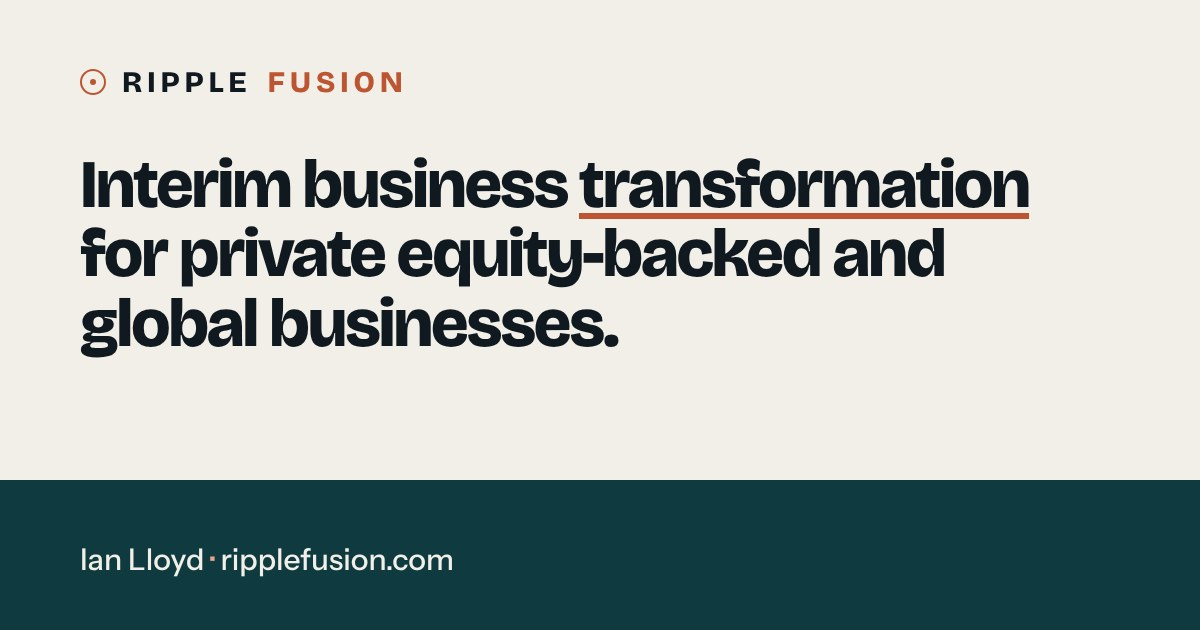
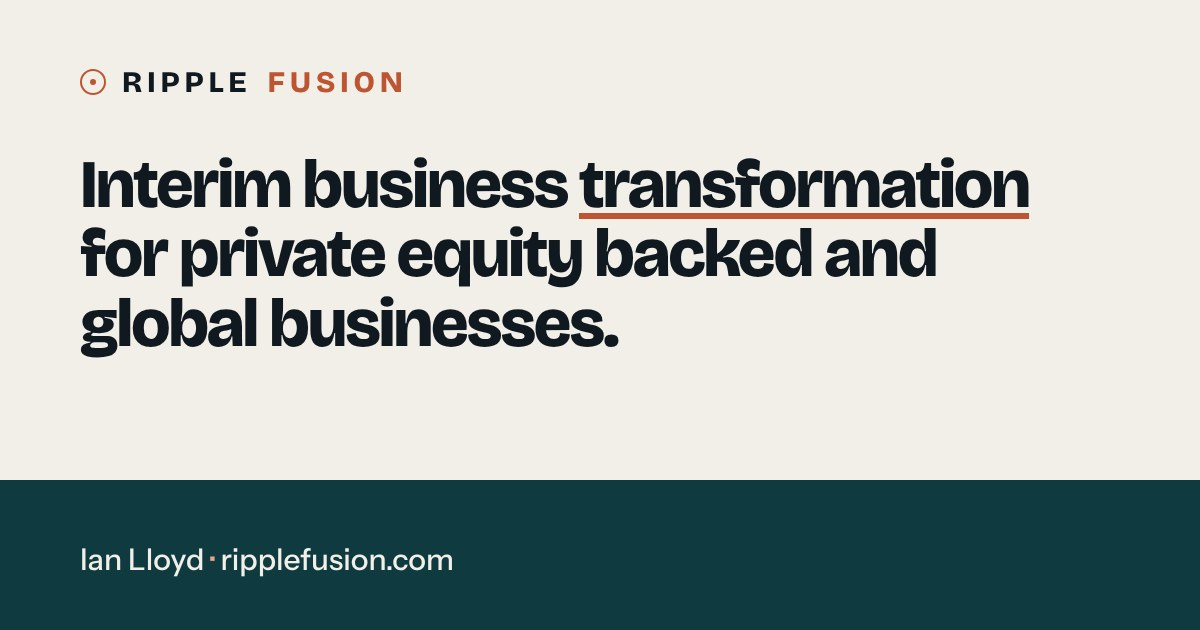
Remove hyphens from the copy, dot beside the wordmark and the large outlined wordmark; LinkedIn shows as Ian Lloyd
Claude-Session: https://claude.ai/code/session_01FFTbw1NJUdJsbffQQ1X4gV

Changed region(s): [[0.4625, 0.3619, 0.8017, 0.4524]]

diff --git a/index.html b/index.html
@@ -4,7 +4,7 @@
 <meta charset="utf-8">
 <meta name="viewport" content="width=device-width, initial-scale=1, viewport-fit=cover">
 <title>Ripple Fusion | Interim Business Transformation</title>
-<meta name="description" content="Interim business transformation for private equity-backed and global businesses: separation, operating model, acquisition integration, programme turnaround, cost and exit readiness.">
+<meta name="description" content="Interim business transformation for private equity backed and global businesses: separation, operating model, acquisition integration, programme turnaround, cost and exit readiness.">
 <link rel="canonical" href="https://ripplefusion.com/">
 <meta name="theme-color" content="#f1efe8">
 <link rel="icon" href="/favicon.ico" sizes="any">
@@ -14,13 +14,13 @@
 <meta property="og:type" content="website">
 <meta property="og:url" content="https://ripplefusion.com/">
 <meta property="og:title" content="Ripple Fusion | Interim Business Transformation">
-<meta property="og:description" content="Interim business transformation for private equity-backed and global businesses.">
+<meta property="og:description" content="Interim business transformation for private equity backed and global businesses.">
 <meta property="og:image" content="https://ripplefusion.com/images/share.jpg">
 <meta property="og:image:width" content="1200">
 <meta property="og:image:height" content="630">
 <meta name="twitter:card" content="summary_large_image">
 <meta name="twitter:title" content="Ripple Fusion | Interim Business Transformation">
-<meta name="twitter:description" content="Interim business transformation for private equity-backed and global businesses.">
+<meta name="twitter:description" content="Interim business transformation for private equity backed and global businesses.">
 <meta name="twitter:image" content="https://ripplefusion.com/images/share.jpg">
 <script type="application/ld+json">
 {
@@ -28,7 +28,7 @@
   "@type": "ProfessionalService",
   "name": "Ripple Fusion",
   "url": "https://ripplefusion.com/",
-  "description": "Interim business transformation for private equity-backed and global businesses.",
+  "description": "Interim business transformation for private equity backed and global businesses.",
   "founder": { "@type": "Person", "name": "Ian Lloyd", "url": "https://ianlloyd.com/", "sameAs": ["https://www.linkedin.com/in/realianlloyd/"] },
   "areaServed": "Worldwide",
   "knowsAbout": ["Separation and Transition Services Agreements", "Target Operating Model", "Acquisition Integration", "Programme Turnaround", "Cost, Sourcing and Global Delivery", "Exit Readiness and Transaction Support", "Interim Transformation", "Private Equity Value Creation"]
@@ -122,10 +122,6 @@
   .top.scrolled { border-bottom-color: var(--rule); }
   .top .wrap { padding-block: 0; min-height: var(--bar); display: flex; align-items: center; justify-content: space-between; gap: 12px 24px; }
   .mark { display: inline-flex; align-items: center; gap: 12px; font: 800 1.02rem var(--display); letter-spacing: 0.16em; text-transform: uppercase; text-decoration: none; white-space: nowrap; }
-  .mark .dot { position: relative; width: 22px; height: 22px; flex: none; }
-  .mark .dot::before, .mark .dot::after { content: ""; position: absolute; inset: 0; margin: auto; border-radius: 50%; }
-  .mark .dot::before { width: 8px; height: 8px; background: var(--orange); }
-  .mark .dot::after { border: 1.5px solid var(--orange); opacity: 0.55; }
   .mark b { color: var(--orange); font-weight: 800; }
   .nav { display: flex; align-items: center; gap: 28px; font-size: 0.98rem; font-weight: 500; }
   .nav a:not(.btn) { text-decoration: none; position: relative; padding: 6px 0; }
@@ -249,7 +245,6 @@
   .act:hover, .act.ok { background: var(--chalk); color: var(--petrol); border-color: var(--chalk); }
   @media (max-width: 460px) { .act span { display: none; } .act { padding: 10px; } }
   @media (min-width: 900px) { .contact { grid-template-columns: 1fr 1fr; } }
-  .giant { position: relative; margin-top: clamp(40px, 7vw, 96px); font: 800 clamp(2.6rem, 12.6vw, 11.4rem)/0.85 var(--display); letter-spacing: -0.045em; white-space: nowrap; text-align: center; color: transparent; -webkit-text-stroke: 1.5px rgba(241, 239, 232, 0.2); user-select: none; overflow: hidden; }
   .foot { background: var(--petrol-deep); color: var(--chalk-soft); }
   .foot .wrap { padding-block: 22px; display: flex; flex-wrap: wrap; justify-content: space-between; gap: 8px 24px; font-size: 0.9rem; }
 
@@ -283,7 +278,7 @@
 
 <header class="top" id="bar">
   <div class="wrap">
-    <a class="mark" href="#top"><span class="dot" aria-hidden="true"></span>Ripple <b>Fusion</b></a>
+    <a class="mark" href="#top">Ripple <b>Fusion</b></a>
     <nav class="nav" aria-label="Sections">
       <a href="#work">The work</a>
       <a href="#engagement">How it runs</a>
@@ -329,7 +324,7 @@
       <ul class="rows">
         <li>
           <div class="title"><span class="tile"><svg class="i" aria-hidden="true"><use href="#i-split"/></svg></span><h3>Separation and transition</h3><p class="when">A business has to leave its parent or its incumbent service provider.</p></div>
-          <div><ul class="what"><li>Transition services agreement negotiated alongside legal counsel</li><li>Day 1 planned across finance, HR, IT, suppliers and contracts</li><li>Stranded and double-running costs sized, tracked and negotiated down</li></ul><p class="done"><svg class="i" aria-hidden="true"><use href="#i-check"/></svg><span><small>Done before</small>A two-year transition across 180+ markets, exited on the contractual date.</span></p></div>
+          <div><ul class="what"><li>Transition services agreement negotiated alongside legal counsel</li><li>Day 1 planned across finance, HR, IT, suppliers and contracts</li><li>Stranded and double running costs sized, tracked and negotiated down</li></ul><p class="done"><svg class="i" aria-hidden="true"><use href="#i-check"/></svg><span><small>Done before</small>A two year transition across 180+ markets, exited on the contractual date.</span></p></div>
         </li>
         <li>
           <div class="title"><span class="tile"><svg class="i" aria-hidden="true"><use href="#i-grid"/></svg></span><h3>Target operating model</h3><p class="when">Every region or acquired business works a different way.</p></div>
@@ -337,7 +332,7 @@
         </li>
         <li>
           <div class="title"><span class="tile"><svg class="i" aria-hidden="true"><use href="#i-merge"/></svg></span><h3>Acquisition integration</h3><p class="when">A serial acquirer needs every deal integrated the same way, at pace.</p></div>
-          <div><ul class="what"><li>An acquisition production line, not a one-off project each time</li><li>Day 1 planned for each business: people, process, technology and finance</li><li>Board reporting on operations and finance from one version of the truth</li></ul><p class="done"><svg class="i" aria-hidden="true"><use href="#i-check"/></svg><span><small>Done before</small>9 businesses across 5 countries integrated at 2 a month.</span></p></div>
+          <div><ul class="what"><li>An acquisition production line, not a one off project each time</li><li>Day 1 planned for each business: people, process, technology and finance</li><li>Board reporting on operations and finance from one version of the truth</li></ul><p class="done"><svg class="i" aria-hidden="true"><use href="#i-check"/></svg><span><small>Done before</small>9 businesses across 5 countries integrated at 2 a month.</span></p></div>
         </li>
         <li>
           <div class="title"><span class="tile"><svg class="i" aria-hidden="true"><use href="#i-turn"/></svg></span><h3>Programme turnaround</h3><p class="when">A critical programme is late, over budget or has lost the board's confidence.</p></div>
@@ -352,7 +347,7 @@
           <div><ul class="what"><li>The change programme aligned to the sale timetable</li><li>Due diligence: buyer information prepared and questions answered</li><li>The programme presented to buyers and advisers</li></ul><p class="done"><svg class="i" aria-hidden="true"><use href="#i-check"/></svg><span><small>Done before</small>Programme and due diligence support behind a $6.5bn sale.</span></p></div>
         </li>
       </ul>
-      <p class="aside">Also available for board advisory and non-executive roles. AI and automation are levers, used where the case is proven, never the starting point.</p>
+      <p class="aside">Also available for board advisory and non executive roles. AI and automation are levers, used where the case is proven, never the starting point.</p>
     </div>
   </section>
 
@@ -366,7 +361,7 @@
         <span class="track" aria-hidden="true"><b></b></span>
         <li class="on"><span class="node"><svg class="i" aria-hidden="true"><use href="#i-search"/></svg></span><h3><small>1</small>Diagnose</h3><p>The current state across people, process and technology, assessed on arrival. The gap to the target is set out in plain terms.</p></li>
         <li class="on"><span class="node"><svg class="i" aria-hidden="true"><use href="#i-map"/></svg></span><h3><small>2</small>Plan</h3><p>One roadmap with governance, risks, dependencies and the critical path, and a budget with forecast and variance.</p></li>
-        <li class="on"><span class="node"><svg class="i" aria-hidden="true"><use href="#i-pulse"/></svg></span><h3><small>3</small>Deliver</h3><p>Weekly updates to the C-suite, a monthly board pack and a seat on the steering committees until the benefits land.</p></li>
+        <li class="on"><span class="node"><svg class="i" aria-hidden="true"><use href="#i-pulse"/></svg></span><h3><small>3</small>Deliver</h3><p>Weekly updates to the senior leadership, a monthly board pack and a seat on the steering committees until the benefits land.</p></li>
         <li class="on"><span class="node"><svg class="i" aria-hidden="true"><use href="#i-exit"/></svg></span><h3><small>4</small>Hand over and leave</h3><p>The right skills, partners and permanent leadership in place. I leave when the business runs it without me.</p></li>
       </ol>
       <p class="aside">Where a programme needs extra depth, I bring in senior specialists I have delivered with before.</p>
@@ -378,10 +373,10 @@
       <div class="text">
         <p class="label">About Ian</p>
         <h2>Ian Lloyd</h2>
-        <p>I'm an interim transformation director with 20+ years' experience in private equity-backed and global businesses. I work alongside CEOs, boards and leadership teams, and I take accountability for the outcome.</p>
+        <p>I'm an interim transformation director with 20+ years' experience in private equity backed and global businesses. I work alongside CEOs, boards and leadership teams, and I take accountability for the outcome.</p>
         <p>Audit and regulatory experience across pharma and financial services keeps me close to the data and process detail that matters as regulation tightens. Based in the UK, working across Europe and beyond.</p>
         <div class="actions">
-          <a class="handle" href="https://www.linkedin.com/in/realianlloyd/" target="_blank" rel="noopener"><span><svg class="i" aria-hidden="true"><use href="#i-in"/></svg></span>realianlloyd</a>
+          <a class="handle" href="https://www.linkedin.com/in/realianlloyd/" target="_blank" rel="noopener"><span><svg class="i" aria-hidden="true"><use href="#i-in"/></svg></span>Ian Lloyd</a>
           <a class="handle" href="https://ianlloyd.com" target="_blank" rel="noopener"><span><svg class="i" aria-hidden="true"><use href="#i-link"/></svg></span>ianlloyd.com</a>
         </div>
       </div>
@@ -403,11 +398,10 @@
         <ul class="ways">
           <li><span class="ic"><svg class="i" aria-hidden="true"><use href="#i-mail"/></svg></span><span class="v"><small>Email</small><b id="v-email"><a href="mailto:hello@ripplefusion.com">hello@ripplefusion.com</a></b></span><button class="act" type="button" id="copy-email" data-copy="hello@ripplefusion.com"><svg class="i" aria-hidden="true"><use href="#i-copy"/></svg><span>Copy</span></button></li>
           <li><span class="ic"><svg class="i" aria-hidden="true"><use href="#i-phone"/></svg></span><span class="v"><small>Phone</small><b id="v-phone"><a href="tel:+447356079593">+44 7356 079 593</a></b></span><button class="act" type="button" id="copy-phone" data-copy="+44 7356 079 593"><svg class="i" aria-hidden="true"><use href="#i-copy"/></svg><span>Copy</span></button></li>
-          <li><span class="ic"><svg class="i" aria-hidden="true"><use href="#i-in"/></svg></span><span class="v"><small>LinkedIn</small><b><a href="https://www.linkedin.com/in/realianlloyd/" target="_blank" rel="noopener">realianlloyd</a></b></span><a class="act" href="https://www.linkedin.com/in/realianlloyd/" target="_blank" rel="noopener" aria-label="Open Ian Lloyd on LinkedIn"><svg class="i" aria-hidden="true"><use href="#i-arrow"/></svg><span>Open</span></a></li>
+          <li><span class="ic"><svg class="i" aria-hidden="true"><use href="#i-in"/></svg></span><span class="v"><small>LinkedIn</small><b><a href="https://www.linkedin.com/in/realianlloyd/" target="_blank" rel="noopener">Ian Lloyd</a></b></span><a class="act" href="https://www.linkedin.com/in/realianlloyd/" target="_blank" rel="noopener" aria-label="Open Ian Lloyd on LinkedIn"><svg class="i" aria-hidden="true"><use href="#i-arrow"/></svg><span>Open</span></a></li>
           <li><span class="ic"><svg class="i" aria-hidden="true"><use href="#i-link"/></svg></span><span class="v"><small>Personal site</small><b><a href="https://ianlloyd.com" target="_blank" rel="noopener">ianlloyd.com</a></b></span><a class="act" href="https://ianlloyd.com" target="_blank" rel="noopener" aria-label="Open ianlloyd.com"><svg class="i" aria-hidden="true"><use href="#i-arrow"/></svg><span>Open</span></a></li>
         </ul>
       </div>
-      <div class="giant" aria-hidden="true">Ripple Fusion</div>
     </div>
   </section>
 </main>
